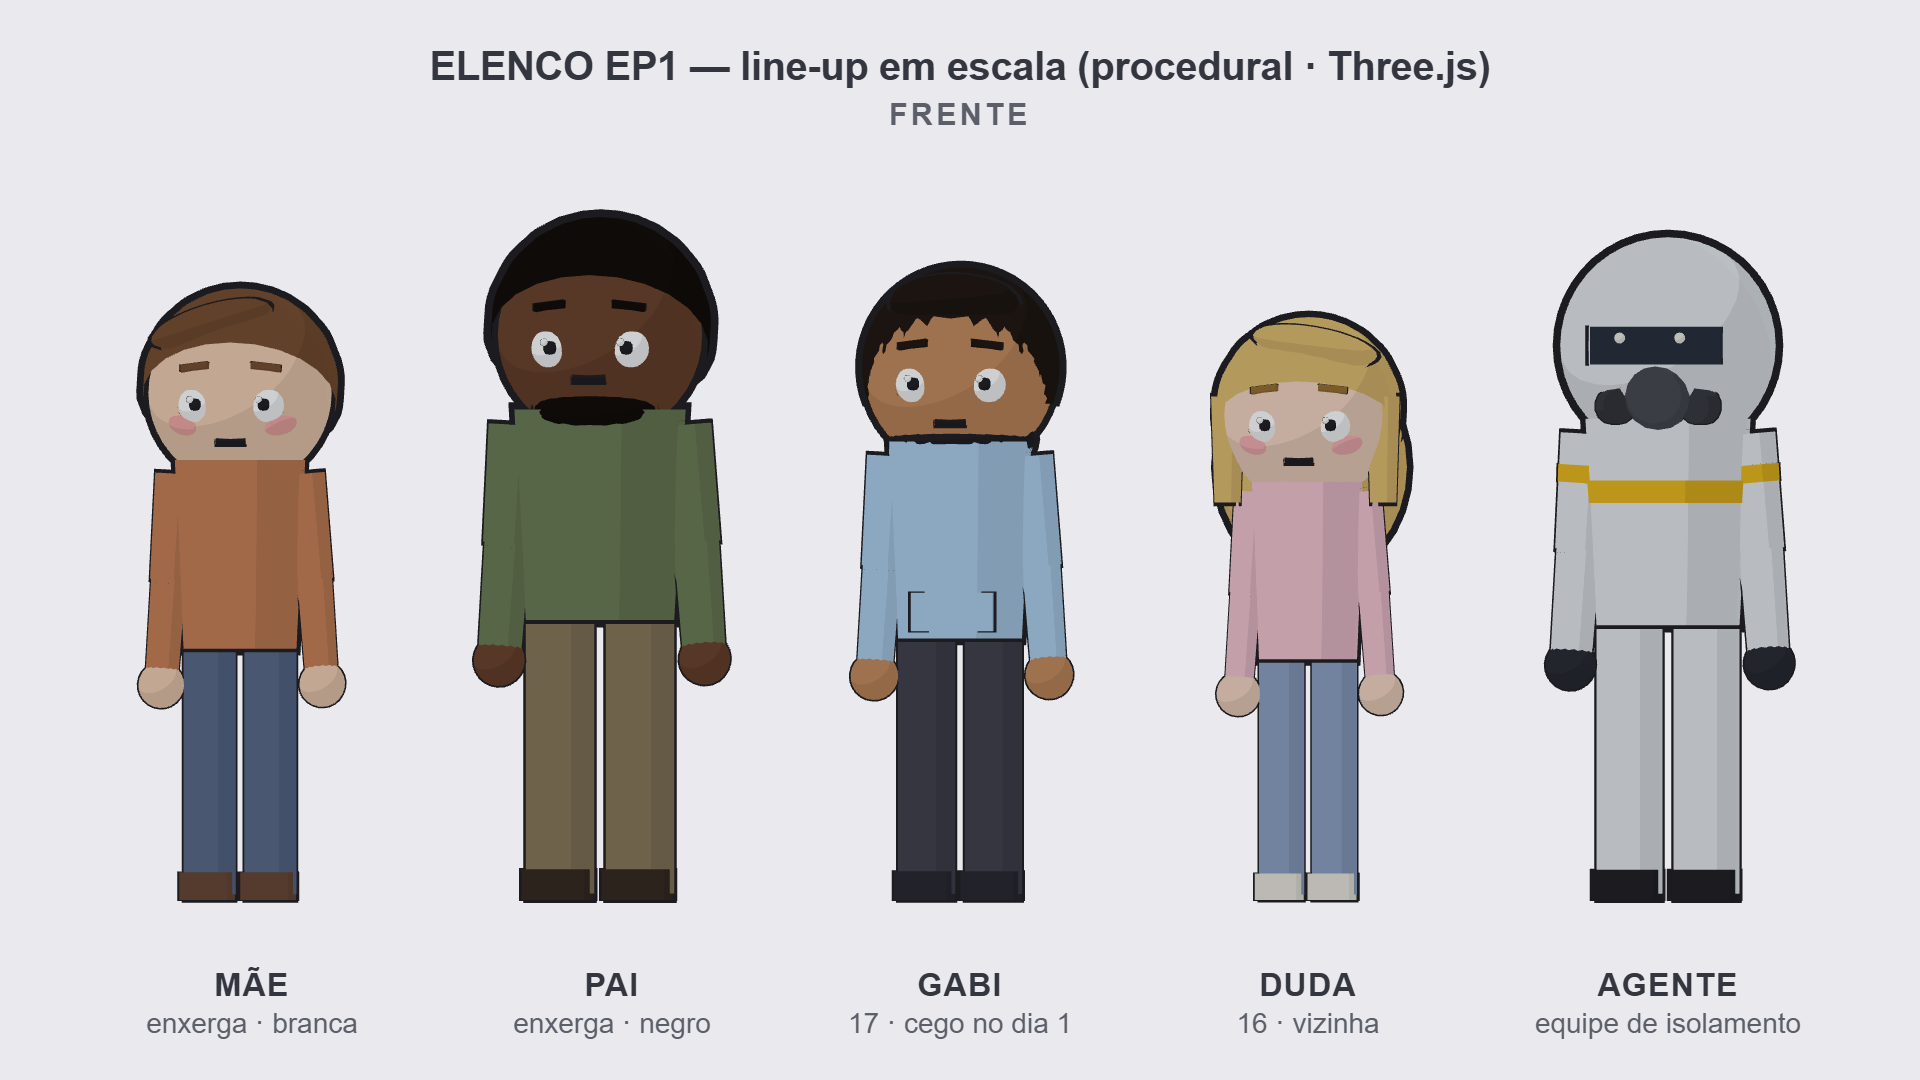
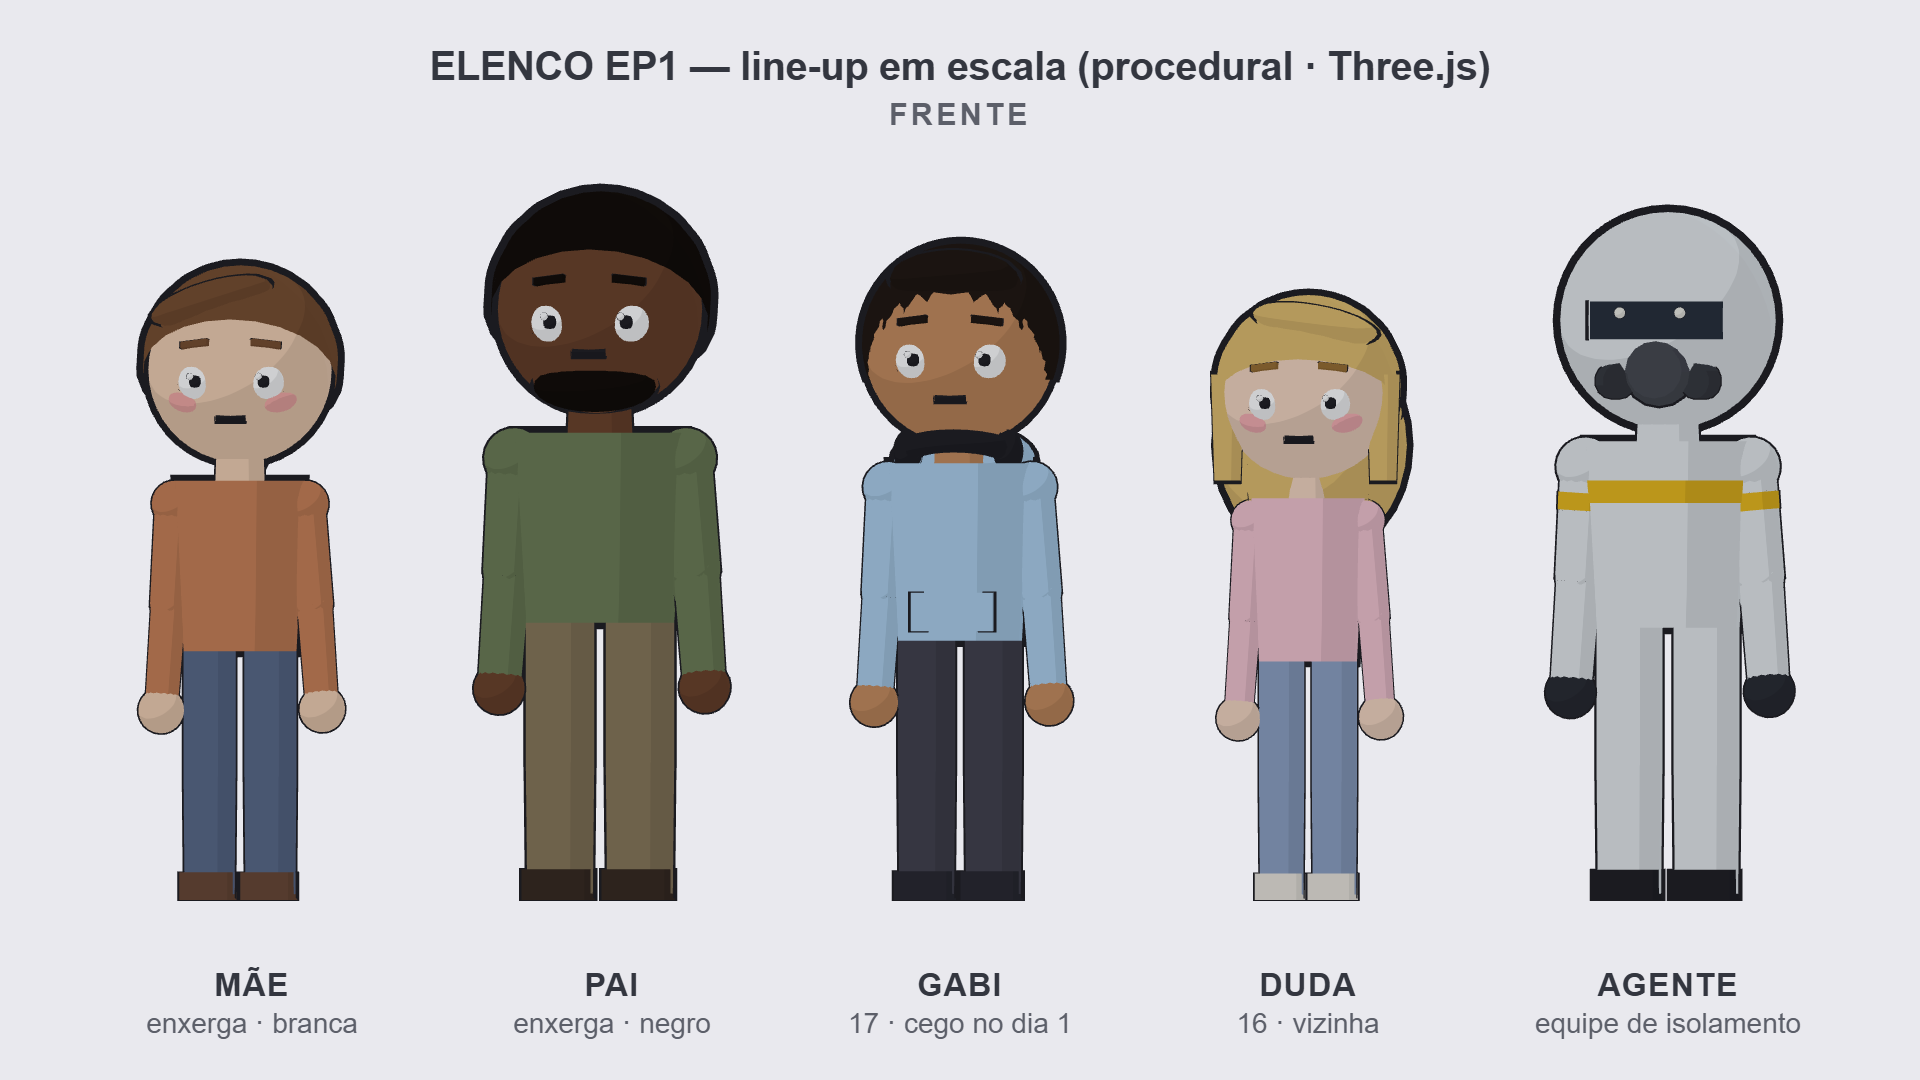
Elenco ganha pescoço: tronco até 1,82, pescoço de pele, cabeça em Elenco.CABECA_Y
Regras novas no padrão de qualidade: juntas aparentes (ombro/cotovelo) e
pescoço. Folhas do elenco atualizadas.

diff --git a/producao/ep1/assets/rig/elenco.js b/producao/ep1/assets/rig/elenco.js
@@ -26,6 +26,9 @@
               sapato: 0x24242a, mao: 0x2d3038, epi: true, faixa: 0xe8b923 },
   };
 
+  // a cabeça gira pela base do pescoço (PESCOCO); centro da cabeça em pé = CABECA_Y
+  const PESCOCO = 1.82, R_CAB = 0.48, CABECA_Y = PESCOCO + R_CAB;
+
   function build(id, opts) {
     const P = Object.assign({}, FICHAS[id], opts || {});
     const w = P.larg;
@@ -57,16 +60,17 @@
       return { hip, knee };
     }
     const pL = leg(-1), pR = leg(1);
-    // tronco
-    add(new THREE.CylinderGeometry(0.30 * w, 0.26 * w, 0.82, 20), P.roupa, 0, 1.5, 0);
+    // tronco (topo em 1,82) + pescoço: a cabeça não fica enterrada no corpo
+    add(new THREE.CylinderGeometry(0.30 * w, 0.26 * w, 0.74, 20), P.roupa, 0, 1.45, 0);
+    add(new THREE.CylinderGeometry(0.105 * w, 0.115 * w, 0.26, 14), P.epi ? P.roupa : P.pele, 0, 1.9, 0);
     if (P.capuz) { // moletom do Gabi: capuz caído + bolso
-      add(sphere(0.26, 18, 14), P.roupa, 0, 1.92, -0.14, g, { s: [1.15, 0.7, 0.85] });
+      add(sphere(0.26, 18, 14), P.roupa, 0, 1.83, -0.15, g, { s: [1.15, 0.6, 0.8] });
       add(new THREE.BoxGeometry(0.34, 0.16, 0.06), P.roupa, 0, 1.2, 0.27);
     }
     if (P.fone) { // objeto-assinatura do Gabi: fone no pescoço
-      add(new THREE.TorusGeometry(0.24, 0.05, 10, 24), P.fone, 0, 1.93, 0.02, g, { r: [Math.PI / 2, 0, 0] });
-      add(sphere(0.075, 12, 12), P.fone, -0.24, 1.93, 0.02);
-      add(sphere(0.075, 12, 12), P.fone, 0.24, 1.93, 0.02);
+      add(new THREE.TorusGeometry(0.2, 0.045, 10, 24), P.fone, 0, 1.86, 0.03, g, { r: [Math.PI / 2 - 0.25, 0, 0] });
+      add(sphere(0.085, 12, 12), P.fone, -0.21, 1.87, 0.06, g, { s: [0.7, 1, 1] });
+      add(sphere(0.085, 12, 12), P.fone, 0.21, 1.87, 0.06, g, { s: [0.7, 1, 1] });
     }
     if (P.lapela) { // blazer: blusa clara em V e duas lapelas
       // V da blusa entre as lapelas; cada lapela com o topo aberto para fora (rot z = -lado)
@@ -78,7 +82,7 @@
     }
     // braços (ombro -> cotovelo, com juntas para posar)
     function arm(side) {
-      const sh = new THREE.Group(); sh.position.set(side * 0.30 * w, 1.85, 0); g.add(sh);
+      const sh = new THREE.Group(); sh.position.set(side * 0.30 * w, 1.74, 0); g.add(sh);
       add(sphere(0.105 * w, 14, 12), P.roupa, 0, -0.02, 0, sh);                          // ombro arredondado
       add(new THREE.CylinderGeometry(0.09 * w, 0.085 * w, 0.46, 14), P.roupa, 0, -0.23, 0, sh);
       if (P.faixa) add(new THREE.CylinderGeometry(0.092 * w, 0.09 * w, 0.07, 14), P.faixa, 0, -0.16, 0, sh);
@@ -91,7 +95,7 @@
     const aL = arm(-1), aR = arm(1);
 
     // cabeça
-    const head = new THREE.Group(); head.position.set(0, 2.2, 0); g.add(head);
+    const head = new THREE.Group(); head.position.set(0, CABECA_Y, 0); g.add(head);
     if (P.epi) {
       // capuz do macacão, óculos escuros e respirador: sem rosto visível
       add(sphere(0.43, 28, 22), P.roupa, 0, 0, 0, head);
@@ -251,7 +255,6 @@
   // Inclina a cabeça a partir do PESCOÇO (não do centro da cabeça): baixar a cabeça leva
   // o rosto para a frente e o queixo não afunda no corpo. baixa (+ = olha para baixo),
   // vira (+ = vira para a esquerda da personagem), lado (inclina de lado), dy (respiração).
-  const PESCOCO = 1.86, R_CAB = 0.34;
   function cabeca(g, baixa, vira, lado, dy) {
     const rig = g.userData.rig, P = rig.ficha;
     const a = (baixa || 0) + ((EXPR[P.expr] || EXPR.neutro).cab || 0);
@@ -288,5 +291,5 @@
     return bc;
   }
 
-  window.Elenco = { FICHAS, EXPR, build, expressao, cabeca, alcancar };
+  window.Elenco = { FICHAS, EXPR, CABECA_Y, build, expressao, cabeca, alcancar };
 })();

diff --git a/producao/ep1/compositions/portao.html b/producao/ep1/compositions/portao.html
@@ -152,7 +152,7 @@
       const colo = pose();
       // aperta o fone: cotovelo para baixo, antebraço dobrado subindo até o pescoço (a busca do alcancar
       // levantava o ombro porque o cotovelo dela vai só até -2,2); a outra mão continua no colo
-      const aperta = [new THREE.Euler(-0.45, -0.55, 0.1), new THREE.Euler(-2.45, 0, 0), colo[2].clone(), colo[3].clone()];
+      const aperta = [new THREE.Euler(-0.6, -0.5, 0.12), new THREE.Euler(-2.65, 0, 0), colo[2].clone(), colo[3].clone()];
       // mãe: mão no trinco
       Elenco.alcancar(mae, "dir", trinco.getWorldPosition(new THREE.Vector3()));
       const maeTrinco = [rm.aL.sh.rotation.clone(), rm.aL.el.rotation.clone()];

diff --git a/producao/ep1/compositions/quarto.html b/producao/ep1/compositions/quarto.html
@@ -274,7 +274,7 @@
         cam.lookAt(ALVO[0], ALVO[1], ALVO[2]);
         // vida: respiração curta (assustado), a cabeça procura o som com atraso em relação aos braços
         const resp = Math.sin(t * 2 * Math.PI * 0.55);
-        rig.head.position.y = 2.2 + resp * 0.012;
+        rig.head.position.y = Elenco.CABECA_Y + resp * 0.012;
         rig.head.rotation.y = Math.sin(t * 0.9) * 0.35 + Math.sin(t * 2.3 + 1) * 0.06;
         rig.head.rotation.z = Math.sin(t * 0.9 - 0.6) * 0.06;
         rig.aL.sh.rotation.x = -1.05 + Math.sin(t * 1.1 + 0.4) * 0.12;

diff --git a/aprendizado/padrao-de-qualidade.md b/aprendizado/padrao-de-qualidade.md
@@ -45,6 +45,11 @@ do curso (Dr. Copi) não entram — só o nível de exigência, aplicado ao noss
   cabeça — senão o queixo afunda no corpo (aconteceu na sala, 2026-11-22). Olho cego não fecha
   abaixo de 0,78 (achatado parece olho roxo).
 - **A boca aparece sempre** (pedido do usuário): nada de queixo afundado nem mão/objeto na frente da boca.
+- **Juntas aparentes** (pedido do usuário, 2026-11-22: "todo tem que ser assim"): ombro e cotovelo
+  arredondados no rig, cotovelo visível e apontando para baixo quando a mão sobe ao peito/rosto.
+  Se o `alcancar` levantar o ombro para trás (cotovelo do rig só dobra até -2,2), posar à mão.
+- **Pescoço** (2026-11-22): tronco até 1,82, pescoço de pele, cabeça em `Elenco.CABECA_Y` (2,30).
+  Nunca escrever 2.2 à mão para a cabeça; usar `Elenco.CABECA_Y` ou `Elenco.cabeca()`.
 - Mão que toca algo (copo, batente, ombro) usa `Elenco.alcancar(g, "esq"|"dir", alvo)` — não chutar ângulo.
 - Personagem de frente para uma bancada/parede fica meio de lado (3/4) para a câmera ver o rosto.
 - No rig, `aL` é o braço DIREITO da personagem (lado -x local); conferir o lado no snapshot.
